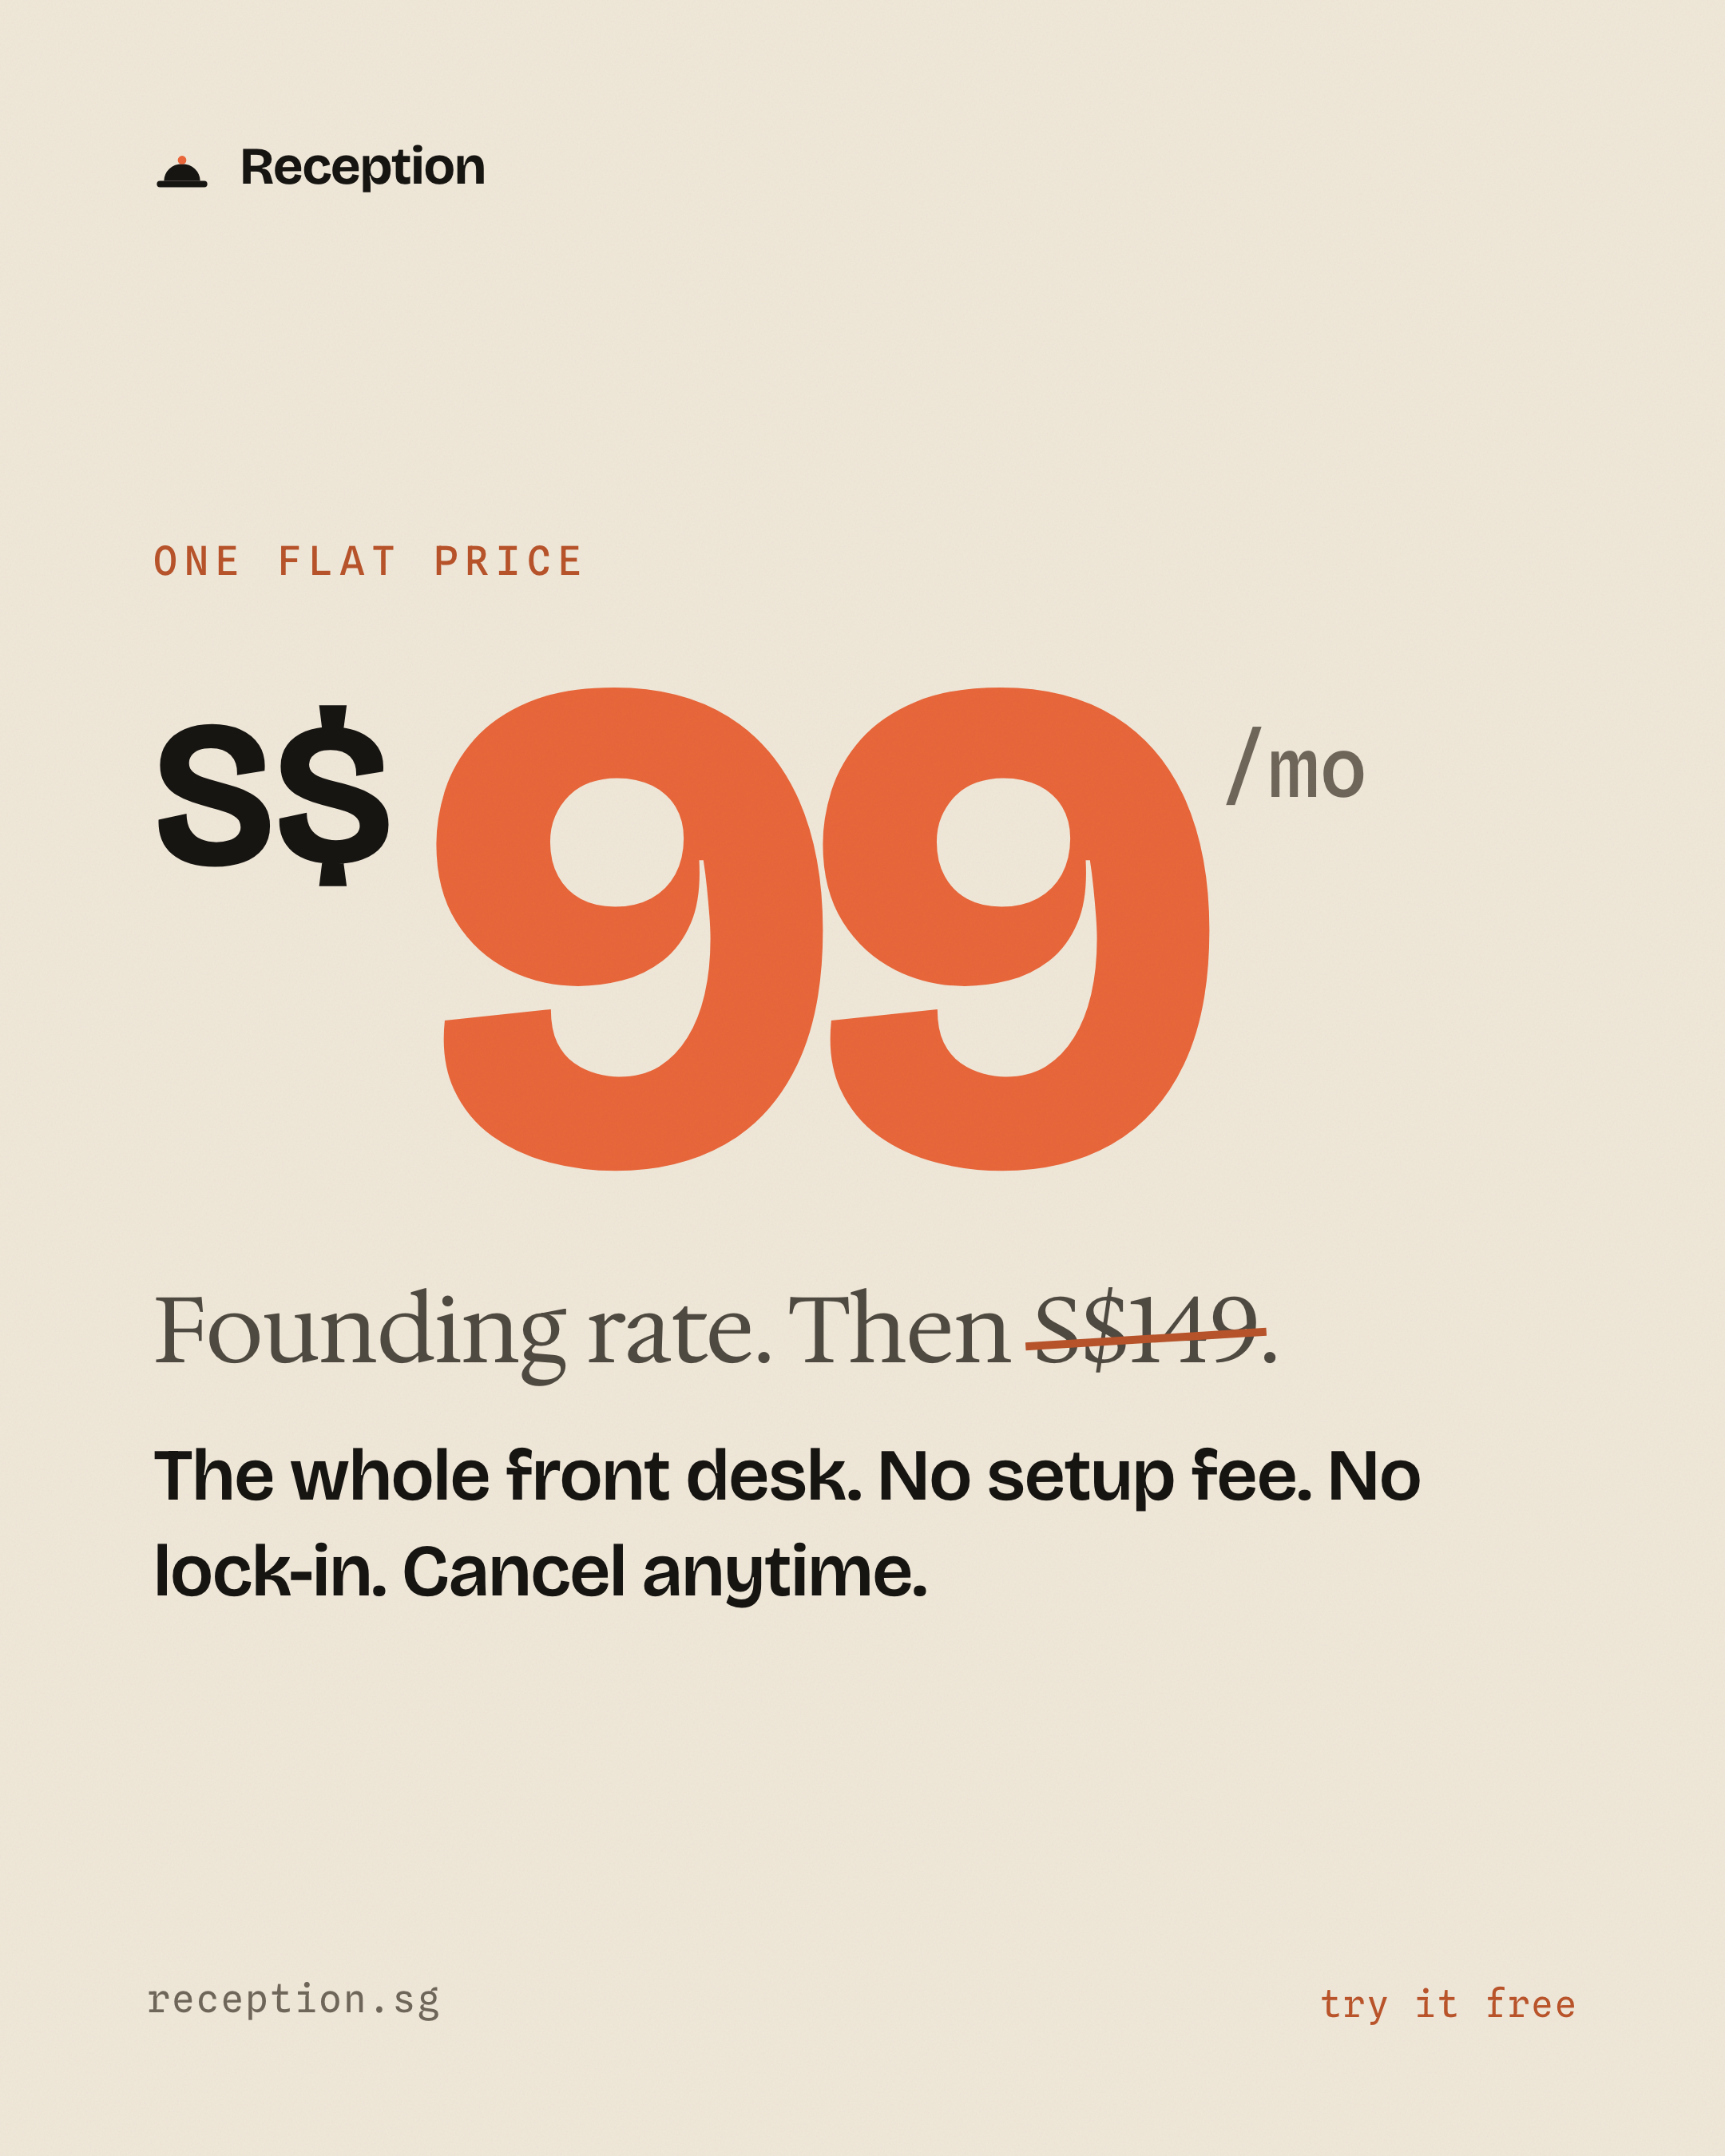
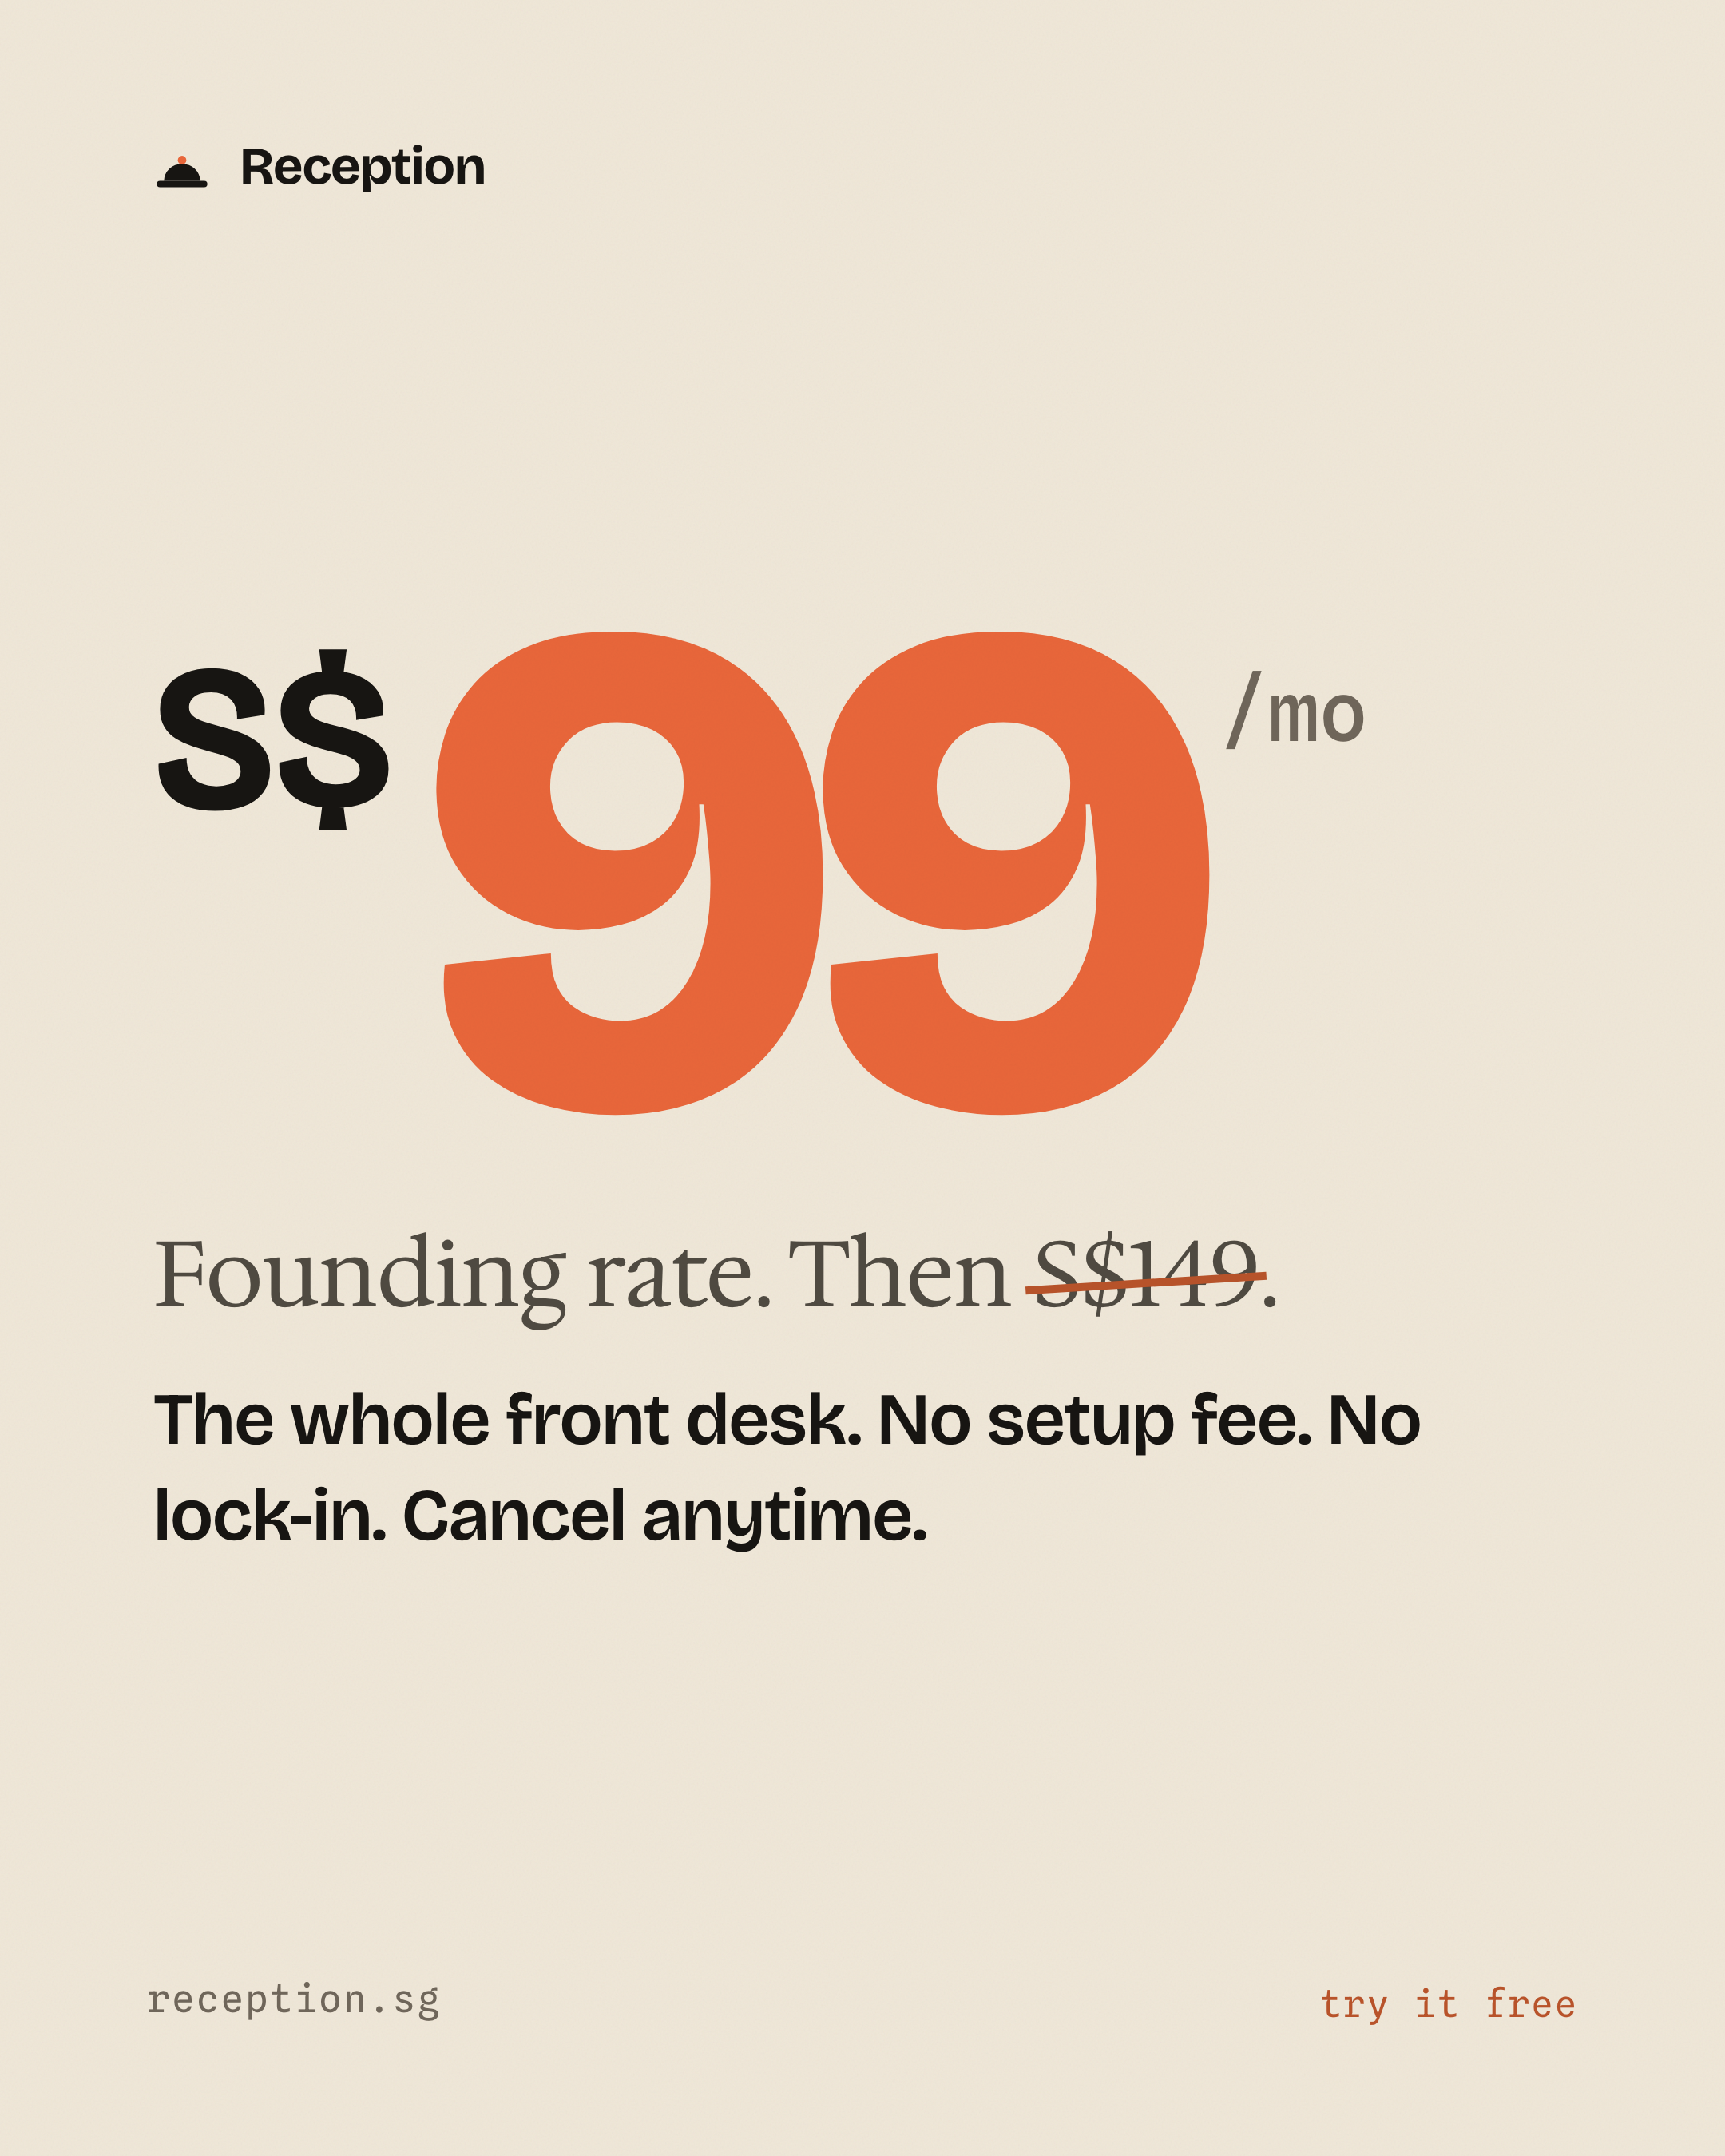
reception ig: rework sparse singles — strip eyebrow reflex (4->1), sourced footnote on stat, cache-bust

Changed region(s): [[0.0931, 0.2489, 0.8375, 0.7467], [0.0931, 0.2489, 0.1241, 0.28]]

diff --git a/receptionig/index.html b/receptionig/index.html
@@ -404,8 +404,8 @@ Try it free at reception.sg, pay only if you love it.
     <div class="item">
       <div class="nm">9x speed stat</div>
       <div class="sub">Single post</div>
-      <img class="single" src="media/single-9x.png">
-      <div class="btnrow"><a class="btn dl" href="media/single-9x.png" download="reception-single-9x.png">Save image</a><button class="btn cp" data-copy="cap-s9x">Copy caption</button></div>
+      <img class="single" src="media/single-9x.png?v=2">
+      <div class="btnrow"><a class="btn dl" href="media/single-9x.png?v=2" download="reception-single-9x.png">Save image</a><button class="btn cp" data-copy="cap-s9x">Copy caption</button></div>
       <div class="cap" id="cap-s9x">The client messages three agents. They go with whoever replies first.
 
 Reply within about 5 minutes and you're up to 9 times more likely to win them. Most agents are driving, in a meeting, or asleep. Reception answers every enquiry in seconds, in your name, and sends the lead to your phone.
@@ -418,8 +418,8 @@ Be first. Every time. Try it free at reception.sg, pay only if you love it.
     <div class="item">
       <div class="nm">Safe for your licence</div>
       <div class="sub">Single post &middot; the compliance angle</div>
-      <img class="single" src="media/single-safe.png">
-      <div class="btnrow"><a class="btn dl" href="media/single-safe.png" download="reception-single-safe.png">Save image</a><button class="btn cp" data-copy="cap-ssafe">Copy caption</button></div>
+      <img class="single" src="media/single-safe.png?v=2">
+      <div class="btnrow"><a class="btn dl" href="media/single-safe.png?v=2" download="reception-single-safe.png">Save image</a><button class="btn cp" data-copy="cap-ssafe">Copy caption</button></div>
       <div class="cap" id="cap-ssafe">The real reason agents hesitate on an AI reply tool: the licence.
 
 Reception is built for it. It answers buyers and clients in your name, qualifies the lead and books the viewing, and never quotes a valuation, never gives advice, never crosses the CEA or MAS line. It catches the lead and hands it to you.
@@ -432,8 +432,8 @@ Smart enough to win the client. Safe enough for your licence. reception.sg
     <div class="item">
       <div class="nm">Not this one</div>
       <div class="sub">Single post &middot; myth flip</div>
-      <img class="single" src="media/single-myth.png">
-      <div class="btnrow"><a class="btn dl" href="media/single-myth.png" download="reception-single-myth.png">Save image</a><button class="btn cp" data-copy="cap-smyth">Copy caption</button></div>
+      <img class="single" src="media/single-myth.png?v=2">
+      <div class="btnrow"><a class="btn dl" href="media/single-myth.png?v=2" download="reception-single-myth.png">Save image</a><button class="btn cp" data-copy="cap-smyth">Copy caption</button></div>
       <div class="cap" id="cap-smyth">"An AI reply desk will get me in trouble with CEA."
 
 Not this one. Reception answers in your name and books the viewing, and stays firmly on the right side of the CEA and MAS line. No valuation, no advice, no crossing over. It just catches the lead so you can close it.
@@ -446,8 +446,8 @@ Send this to an agent who thinks AI means a spammy chatbot. Try it free at recep
     <div class="item">
       <div class="nm">Awake at 3am</div>
       <div class="sub">Single post &middot; after-hours</div>
-      <img class="single" src="media/single-3am.png">
-      <div class="btnrow"><a class="btn dl" href="media/single-3am.png" download="reception-single-3am.png">Save image</a><button class="btn cp" data-copy="cap-s3am">Copy caption</button></div>
+      <img class="single" src="media/single-3am.png?v=2">
+      <div class="btnrow"><a class="btn dl" href="media/single-3am.png?v=2" download="reception-single-3am.png">Save image</a><button class="btn cp" data-copy="cap-s3am">Copy caption</button></div>
       <div class="cap" id="cap-s3am">Your front desk. Awake at 3am.
 
 While you sleep, a buyer messages about your listing. Reception answers in your name, takes their details, and books the viewing. You wake up to a lead, not a missed message.
@@ -460,8 +460,8 @@ Never lose the after-hours enquiry again. Try it free, pay only if you love it. 
     <div class="item">
       <div class="nm">S$99 a month</div>
       <div class="sub">Single post &middot; price</div>
-      <img class="single" src="media/single-price.png">
-      <div class="btnrow"><a class="btn dl" href="media/single-price.png" download="reception-single-price.png">Save image</a><button class="btn cp" data-copy="cap-sprice">Copy caption</button></div>
+      <img class="single" src="media/single-price.png?v=2">
+      <div class="btnrow"><a class="btn dl" href="media/single-price.png?v=2" download="reception-single-price.png">Save image</a><button class="btn cp" data-copy="cap-sprice">Copy caption</button></div>
       <div class="cap" id="cap-sprice">S$99 a month. That is the whole front desk.
 
 Founding rate if you join by 31 October, then S$149. No setup fee, no lock-in, cancel anytime. It answers every buyer and client in your name, day or night, and sends the lead straight to your phone.